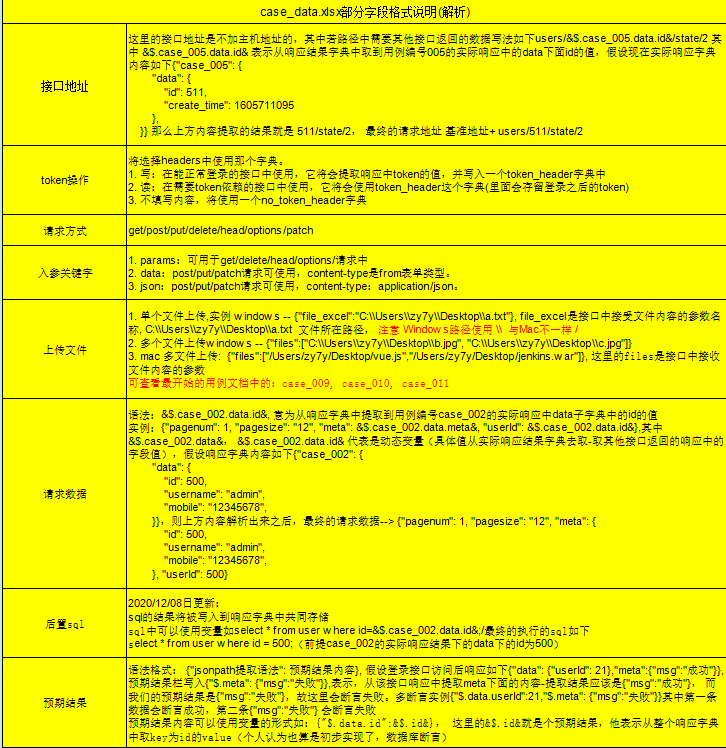
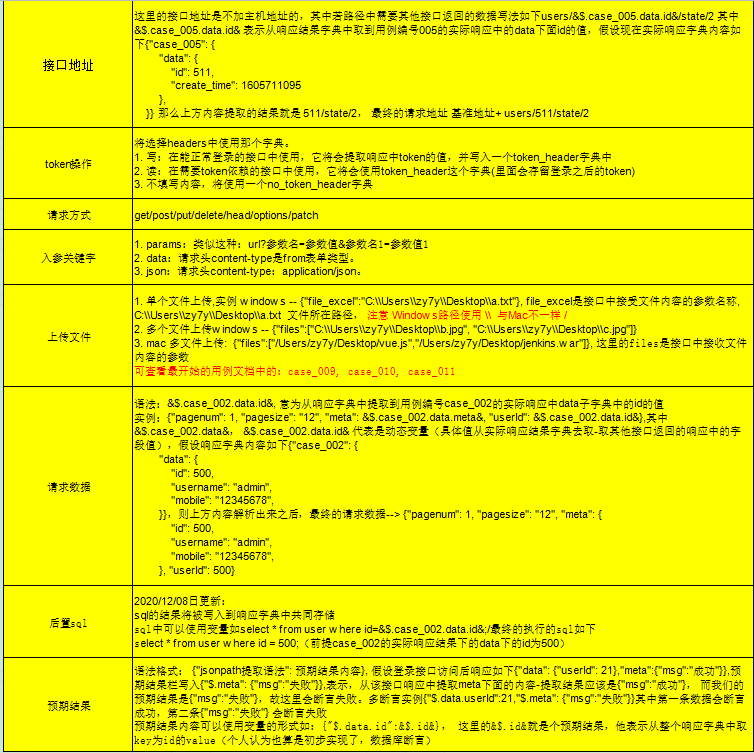
修改说明文档，以免形成误导

diff --git a/api/base_requests.py b/api/base_requests.py
@@ -59,8 +59,8 @@ class BaseRequest(object):
         """
         :param method: 请求方法
         :param url: 请求url
-        :param parametric_key: 入参关键字， get/delete/head/options/请求使用params,
-         post/put/patch请求可使用json（application/json）/data
+        :param parametric_key: 入参关键字， params(查询参数类型，明文传输，一般在url?参数名=参数值), data(一般用于form表单类型参数)
+        json(一般用于json类型请求参数)
         :param data: 参数数据，默认等于None
         :param file: 文件对象
         :param header: 请求头
@@ -76,7 +76,7 @@ class BaseRequest(object):
             res = session.request(method=method, url=url, json=data, files=file, headers=header)
         else:
             raise ValueError(
-                '可选关键字为：get/delete/head/options/请求使用params, post/put/patch请求可使用json（application/json）/data')
+                '可选关键字为params, json, data')
         logger.info(f'\n最终请求地址:{res.url}\n请求方法:{method}\n请求头:{header}\n请求参数:{data}\n上传文件:{file}\n响应数据:{res.json()}')
         return res
 
